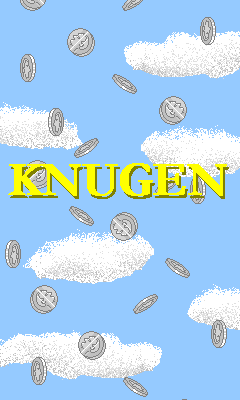
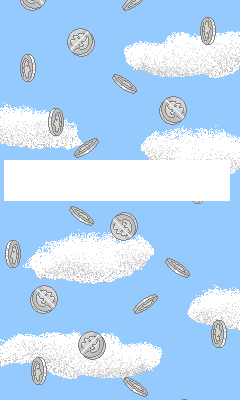
Added a nice bouncing effect and split menubackground and title into two seperate images.

Changed region(s): [[0.0, 0.39, 0.9625, 0.51]]

diff --git a/src/MainMenu.js b/src/MainMenu.js
@@ -3,16 +3,21 @@ KnugenGame.MainMenu = function(game){
 };
 KnugenGame.MainMenu.prototype = {
 	create: function(){
-		var background = this.add.sprite(0, 0, 'menuBackground');
+		this.add.sprite(0, 0, 'menuBackground');
 
 		var text = "(Tryck för att bli Knugen)";
 		var style = { font: "10px Arial", fill: "#000000", align: "center" };
-		var startText = this.game.add.text(KnugenGame.WIDTH/2, 200, text, style);
+		var startText = this.game.add.text(KnugenGame.WIDTH/2, 220, text, style);
 		startText.anchor.setTo(0.5, 0);
 
-		var text = "Version: 0.2 Beta";
+		var title = this.add.sprite(KnugenGame.WIDTH/2, 180, 'title');
+		title.anchor.setTo(0.5, 0);
+
+		var text = "Version: 0.3 Beta";
 		var style = { font: "10px Arial", fill: "#000000", align: "center" };
 		var version = this.game.add.text(5, 385, text, style);
+
+		this.game.add.tween(title).from( { y: -200 }, 1500, Phaser.Easing.Bounce.Out, true);
 
 		this.game.input.onDown.add(this.startGame, this);
 	},

diff --git a/src/Preloader.js b/src/Preloader.js
@@ -15,6 +15,7 @@ KnugenGame.Preloader.prototype = {
 		// load images
 		this.load.image('TNSlogo', 'assets/TNS_logo.png');
 		this.load.image('menuBackground', 'assets/Menu.png');
+		this.load.image('title', 'assets/Knugen_Title.png');
 		this.load.image('gameOverScreen', 'assets/GameOverScreen.png');
 		this.load.image('garden', 'assets/Garden.png');
 		this.load.image('clouds', 'assets/Clouds.png');

diff --git a/src/Splash.js b/src/Splash.js
@@ -8,7 +8,7 @@ KnugenGame.Splash.prototype = {
       logo.scale.setTo(0.6);
 
       var music = this.game.add.audio('bgMusic', 0.7, true);
-      music.play();
+      //music.play();
 
       // Music credits
       var text = "Music:\nMinstrel Guild - Kevin MacLeod";
